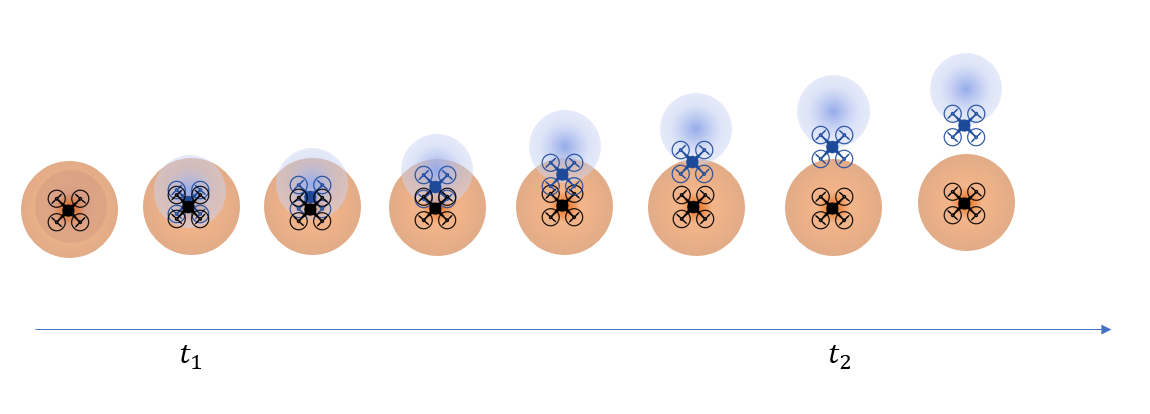
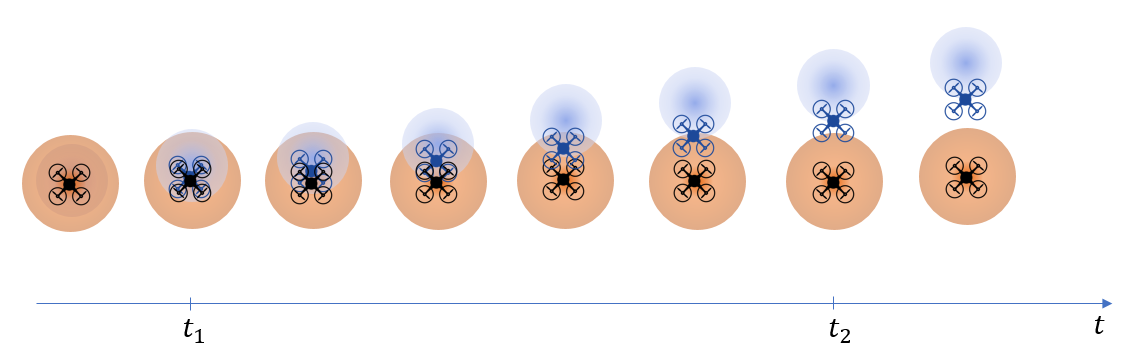
changes

diff --git a/main.tex b/main.tex
@@ -441,9 +441,9 @@ In Inverse Reinforcement Learning (IRL), we consider an agent acting optimally o
 \footnote{TODO: Talk about that it is an ill-posed problem ... And previous works made assumptions about the Reward function to solve this problem}
 
 \section{Problem Statement}\label{sec:problem}
-We consider an autonomous vehicle (AV) performing a navigation task to a desired destination. The AV has a set of sensors $\mathcal{S}$ where $|\mathcal{S}|=N$, $N$ is the number of AV sensors. We also consider a malicious attacker that can spoof a subset of sensors $\mathcal{S'}$ where $\mathcal{S'} \subset \mathcal{S}$, $|\mathcal{S'}| < N$. The goal of the attacker is to drive the AV towards a hostile destination while hiding the attack within the noise profiles of the spoofed AV sensors. The attack begins at time $t_1$. The attack stays stealthy until the noise margins of the spoofed sensors don't overlap anymore with the noise margins of the uncompromised ones at $t_2$ as shown in Fig. \ref{fig:sensor_spoofing}. From $t_2$, the AV state estimator can detect that there is an attack or fault that led to this divergence in readings, but it cannot distinguish which sensors are compromised and which are not.
+We consider an autonomous vehicle (AV) performing a navigation task to a desired destination.  The AV navigates inside an environment The AV has a set of sensors $\mathcal{S}$ where $|\mathcal{S}|=N$, $N$ is the number of AV sensors. We also consider a malicious attacker that can spoof a subset of sensors $\mathcal{S'}$ where $\mathcal{S'} \subset \mathcal{S}$, $|\mathcal{S'}| < N$. The goal of the attacker is to drive the AV towards a hostile destination while hiding the attack within the noise profiles of the spoofed AV sensors. The attack begins at time $t_1$. The attack stays stealthy until the noise margins of the spoofed sensors don't overlap anymore with the noise margins of the uncompromised ones at $t_2$ as shown in Fig. \ref{fig:sensor_spoofing}. From $t_2$, the AV state estimator can detect that there is an attack or fault that led to this divergence in readings, but it cannot distinguish which sensors are compromised and which are not.
 \begin{figure}[h]
-\caption{Divergence of sensor readings between a compromised and an umcompromised sensor}
+\caption{An attack on the blue sensor starts at $t_1$. The attack can be detected at $t_2$ when the sensors error margins don't overlap anymore.}
 \centering
 \includegraphics[width=0.5\textwidth]{sensor_spoofing}
  \label{fig:sensor_spoofing}
@@ -459,30 +459,29 @@ TO BE MODIFIED
 Determining the start time of the attack $t_1$ and the last un-compromised AV state $s_{t_1-1}$ and use this information to recover the actual state of the AV at time $t$.
 
 \section{Attacker Intention Inference}\label{sec:intpredic}
-We propose to cast Problem 1 an Inverse Reinforcement Learning problem. In this problem, we consider the compromised AV under attack acts as an agent that moves according to a policy $\pi^a$. The policy $\pi^a$ drives the agents towards the hostile destination $g_A$ as fast as possible while hiding the attack within the sensors noise profiles or the environment disturbance model. At each state $s$, the policy $\pi^a$ is calculated according to:
+We propose to cast Problem 1 an Inverse Reinforcement Learning problem. In this problem, we consider the compromised AV under attack acts as an agent that navigates in the environment according to a policy $\pi^a$. The policy $\pi^a$ drives the agent towards the hostile destination $g^a$ as fast as possible while hiding the attack within the sensors noise profiles or the environment disturbance model. At each state $s$, the policy $\pi^a$ is calculated according to:
 \[ \pi^a(s) = \arg\!\max_{a\in A} Q^{\pi^a}(s,a,R^a)\]
 
-The attacker's reward function can be modelled as follows. 
+The reward function $R^a$ can take many forms. For the sake of simplicity we assume the reward function $R^a$ that makes the agent moves towards the hostile goal $g$ can be modelled as follows. 
   \begin{equation}
     R^a(s)=\left\{
                 \begin{array}{ll}
-                  c\hspace{2em} s\in \mathcal{G}\\
-                  0\hspace{2em} s\notin \mathcal{G}
+                  c\hspace{2em} s = g\\
+                  0\hspace{2em} s \ne g
                 \end{array}
               \right.
   \end{equation}
 Where $c$ is a positive constant.
 
-Given the set of observations $\mathcal{O}_{t_2:t}$, the goal is to infer the intention of the attacker by inferring the reward function $R(s)$ the AV is trying to maximize. The algorithm we propose infers the reward function by leveraging Bayesian Inverse Reinforcement Learning techniques (BIRL)\cite{Ramachandran2007}. In BIRL, the inference of the reward function posterior $Pr(R|O)$ is a function of the reward function prior $Pr(R)$ and the likelihood of the observations $Pr(O|R)$ as follows:
+Given the set of observations $\mathcal{O}_{t_2:t}$, the goal is to infer the intention of the attacker by inferring the reward function $R(s)$ the AV is trying to maximize. As attacker can compromise only a subset of sensors $\mathcal{S}'$, we use rely on this assumption to perform attacker's intention inference. Our intuition is that we can use the sensor readings of the compromised set of sensors and the actions taken by the AV to infer that they match the actions of the attacker's policy $\pi_a$. We propose a method that starts examining all the sensor readings and AV actions at the time the attack is detected $t_2$. The goal is to search for the subset of the compromised sensors $\mathcal{S}'$  that cause the AV to drift towards the bad goal. The algorithm we propose leverages Bayesian Inverse Reinforcement Learning techniques (BIRL)\cite{Ramachandran2007} in order to do the inference. In BIRL, the inference of the reward function posterior $Pr(R|O)$ is a function of the reward function prior $Pr(R)$ and the likelihood of the observations $Pr(O|R)$ as follows:
 \begin{equation} 
     Pr(R|O) = \frac{Pr(O|R)Pr(R)}{Pr(O)}
 \end{equation}
 Where, $Pr(O)$ is the probability distribution of $O$ over the entire space of reward function $R$. The normalization constant $Pr(O)$ is usually hard to compute as it requires performing multiple integral calculations which is usually not feasible to compute analytically. To estimate the posterior distribution while avoiding calculating $Pr(O)$, we use the well-known MCMC sampling algorithm. The output of MCMC is an estimate of the distribution of the posterior $Pr(\tilde{R}|O)$. As this is an estimation problem, we are interested reporting the value of $R$ that minimizes the expected Lease Square Error (LSE) of the estimate $E[(R-\tilde{R})^2]$. It is proven in \cite{Ramachandran2007} that the mean of the estimated posterior distribution is the optimal estimator in that case.
 
+In order for the MCMC algorithm to estimate the posterior $Pr(R|O)$, we need to compute two terms in each iteration. The first term is the prior $Pr(R)$ and the second one is the likelihood of the observations $Pr(O|R)$.
 
-
-The second part we need to compute inside MCMC algorithm is the likelihood of the observations.
-In most of the previous work done in BIRL, the likelihood of the observations is calculated as follows:
+The likelihood of the observations can be calculated as follows:
 \begin{equation}
 Pr(O|R) = \frac{e^{\alpha\sum_{i}{Q^*(s_i,a_i,R)}}}{\sum_{b\in A}{}e^{\alpha\sum_{i}{}Q^*(s_i,b,R)}}
 \end{equation}
@@ -492,40 +491,39 @@ P(O_i|R_{g}) = P(a_i|s_i,g) \propto e^{-\alpha \lVert a_i - a_{CL} \rVert_{2}}
 \end{equation}
 Where $a_{CL}$ is the action given by the system's closed loop controller to go from state $s_i$ to goal $g_i$.
 
-In our problem, the attacker is trying to make the AV go to a hostile goal $g_A$, while making the autonomous controller of the AV believe that it is going towards it's original desired goal $g_T$. This means that we can infer from the set of states of the uncompromised sensors $\mathcal{S}_u$ along with the set of actions taken over time that the AV is moving towards one of the hostile goals.
-
-The idea is, for each time step $t$ we run MCMC algorithm to infer the hostile goal. We sample a goal $g$ from the set of goals $\mathbb{G}$ and then for each sensor $i$, we compute the posterior of having the goal $g$ as the hostile goal $g_A$ given the set of observations $\mathcal{O}_{i,t_2:t}$ as follows:
-\begin{equation} Pr(g=G_A|\mathcal{O}_{i,t_2:t}) \propto Pr(\mathcal{O}_{i,t_2:t} | g = G_A) Pr(g=G_A|\mathcal{O}_{i,t_2:t-1})
+Algorithm 1, shows how we use MCMC for inference.
+Initially, we assume that the prior for a hostile goal is normally distributed among all  possible hostile goals. During MCMC iterations we update the for each time step $t$ we run MCMC algorithm to infer the hostile goal of the attacker. We sample a goal $g$ from the set of goals $\mathbb{G}$ and then for each sensor $i$, we compute the posterior of having the goal $g$ as the hostile goal $g_A$ given the set of observations $\mathcal{O}_{i,t_2:t}$ as follows:
+\begin{equation} Pr(g=g_a|\mathcal{O}_{i,t_2:t}) \propto Pr(\mathcal{O}_{i,t_2:t} | g = G_A) \\ \times Pr(g=g_a|\mathcal{O}_{i,t_2:t-1})
 \end{equation}
 The first term on the right hand side of the equation is the likelihood of the observations given that the goal $g$ is the hostile goal $g_A$ which can be computed according to (3) or can be approximated by (4). The second term is the prior which is updated from the posterior calculated at the previous time $t-1$.
-
-%\begin{algorithm}
-%    %\SetKwInOut{Input}{Input}
-%    %\SetKwInOut{Output}{Output}
-%    \underline{AIP} ($\mathcal{O}, \mathcal{G}$)\;
-%    %\Input{Two nonnegative integers $a$ and $b$}
-%    %\Output{$\gcd(a,b)$}
-%    \ForEach {$\mathcal{O}_i \subset \mathcal{O} $}
-%    {
-%        \While{iteration $t < t_{max}$}{
-%            \ForEach{Observation $(s_{i,k}, a_k) \in \mathcal{O}_i$}
-%            { 
-%                $P(a_k|s_{i,k},g) \leftarrow  e^{-\alpha \lVert a_k - a_{CL} %\rVert_{2}}$\;
-%                $P(g|(s_{i,k}, a_k)) \leftarrow  P(a_k|s_{i,k},g) P(g)$\;
-%            }
-%            $g_M \leftarrow mean(P(g|\mathcal{O}_i)$)\;
-%            \eIf{$g_M \in \mathcal{G}$}
-%              {
-%                $g_T \leftarrow g_M$\;
-%                $z_i \in \mathcal{S}_u$\;
-%              }
-%              {
-%                $z_i \in \mathcal{S}_c$\;
-%              }
-%        }
-%    }
-%    \caption{Attacker Intention Prediction}
-%\end{algorithm}
+By examining all sensor data and all possible bad goals inside the set $\mathcal{G}$, we can infer which set of sensors are compromised and which are not. The recovery part can be done after that by removing the compromised sensors from the state estimator calculations.
+\begin{algorithm}
+    %\SetKwInOut{Input}{Input}
+    %\SetKwInOut{Output}{Output}
+    \underline{AIP} ($\mathcal{O}, \mathcal{G}$)\;
+    %\Input{Two nonnegative integers $a$ and $b$}
+    %\Output{$\gcd(a,b)$}
+    \ForEach {$\mathcal{O}_i \subset \mathcal{O} $}
+    {
+        \While{iteration $t < t_{max}$}{
+            \ForEach{Observation $(s_{i,k}, a_k) \in \mathcal{O}_i$}
+            { 
+                $P(a_k|s_{i,k},g) \leftarrow  e^{-\alpha \lVert a_k - a_{CL} \rVert_{2}}$\;
+                $P(g|(s_{i,k}, a_k)) \leftarrow  P(a_k|s_{i,k},g) P(g)$\;
+            }
+            $g_M \leftarrow mean(P(g|\mathcal{O}_i)$)\;
+            \eIf{$g_M \in \mathcal{G}$}
+              {
+                $g_T \leftarrow g_M$\;
+                $z_i \in \mathcal{S}_u$\;
+              }
+              {
+                $z_i \in \mathcal{S}_c$\;
+              }
+        }
+    }
+    \caption{Attacker Intention Prediction}
+\end{algorithm}
 \section{Simulations \& Experimental Results}\label{sec:conclusion}
 
 
